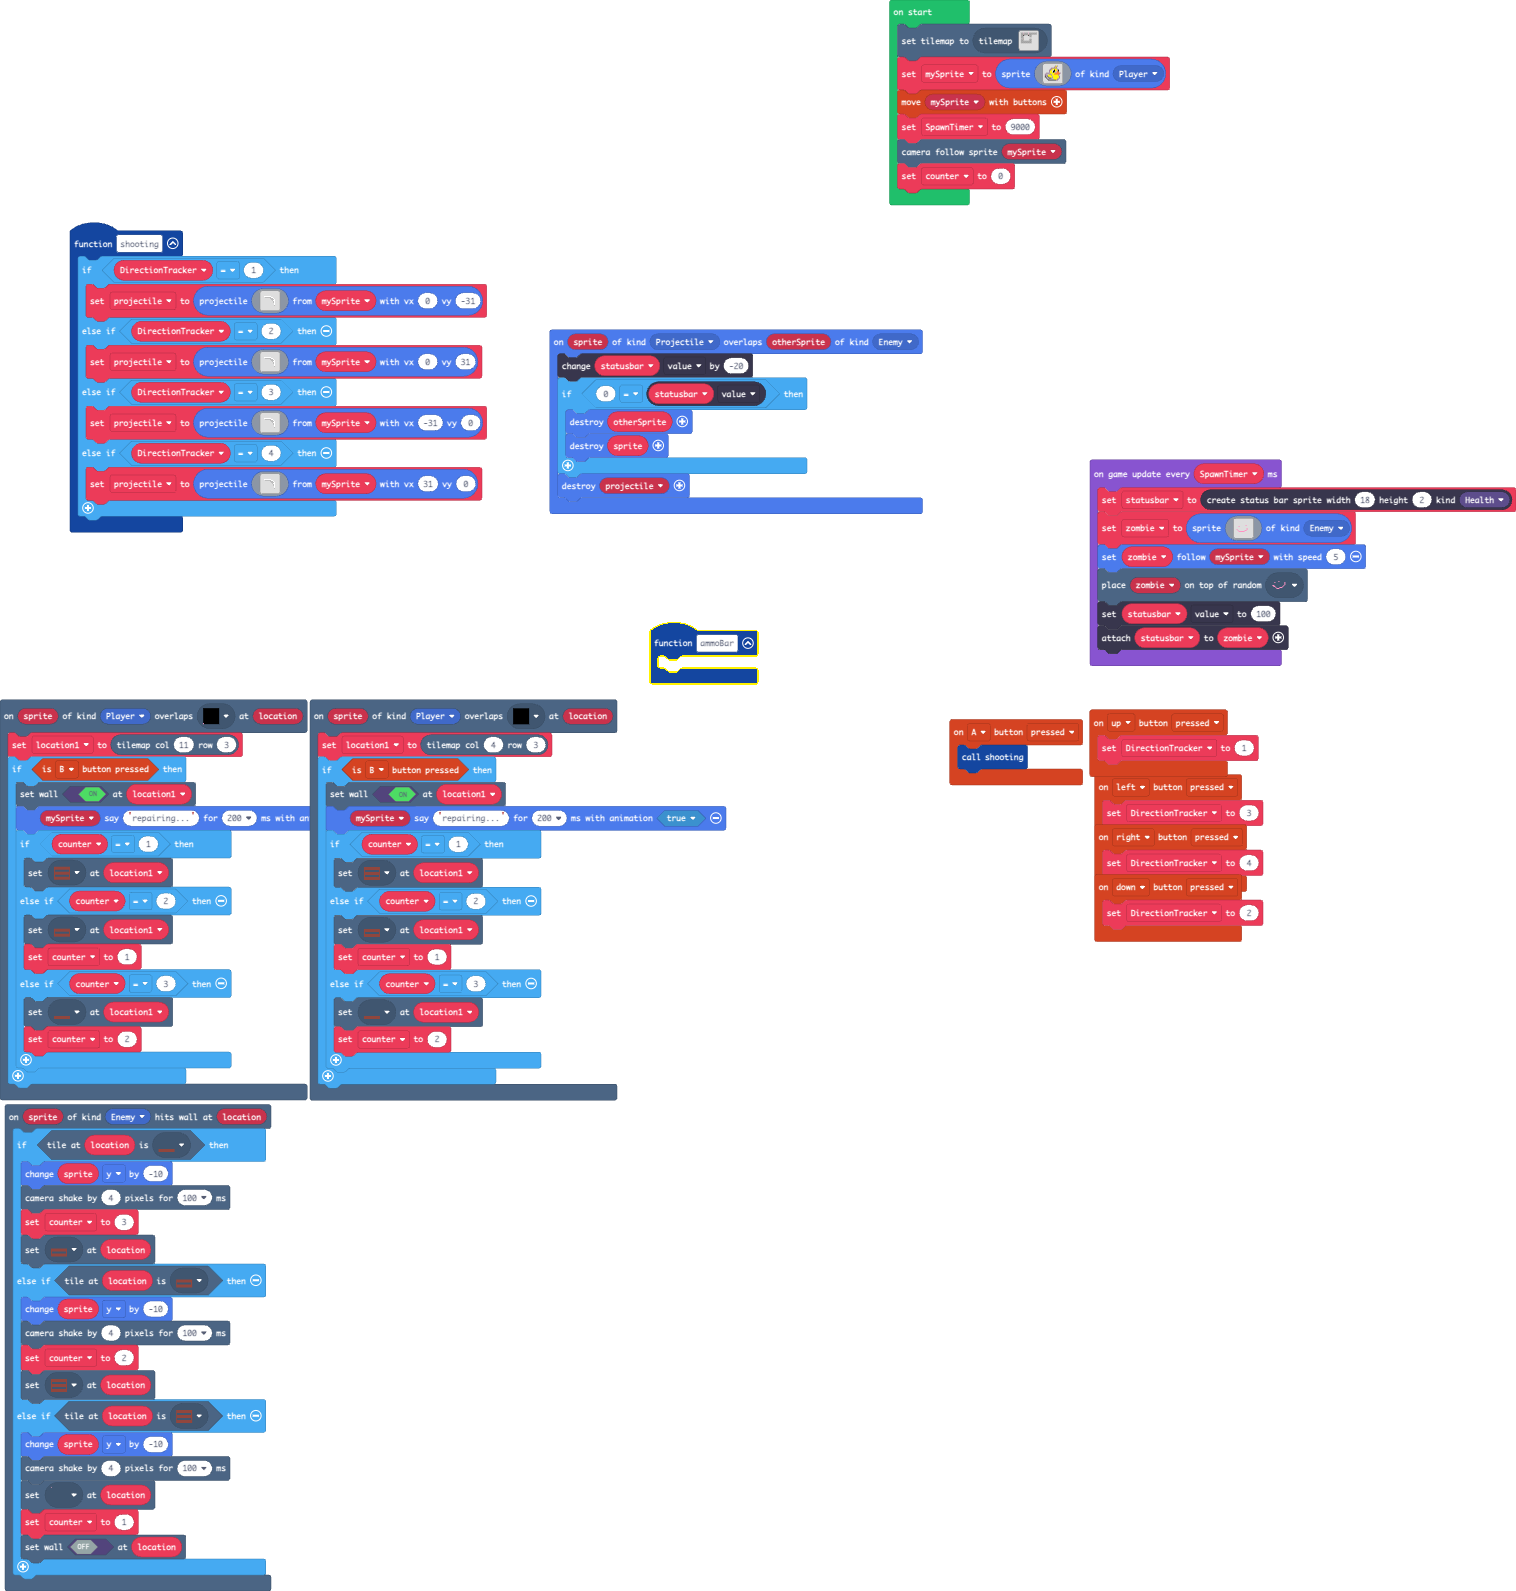
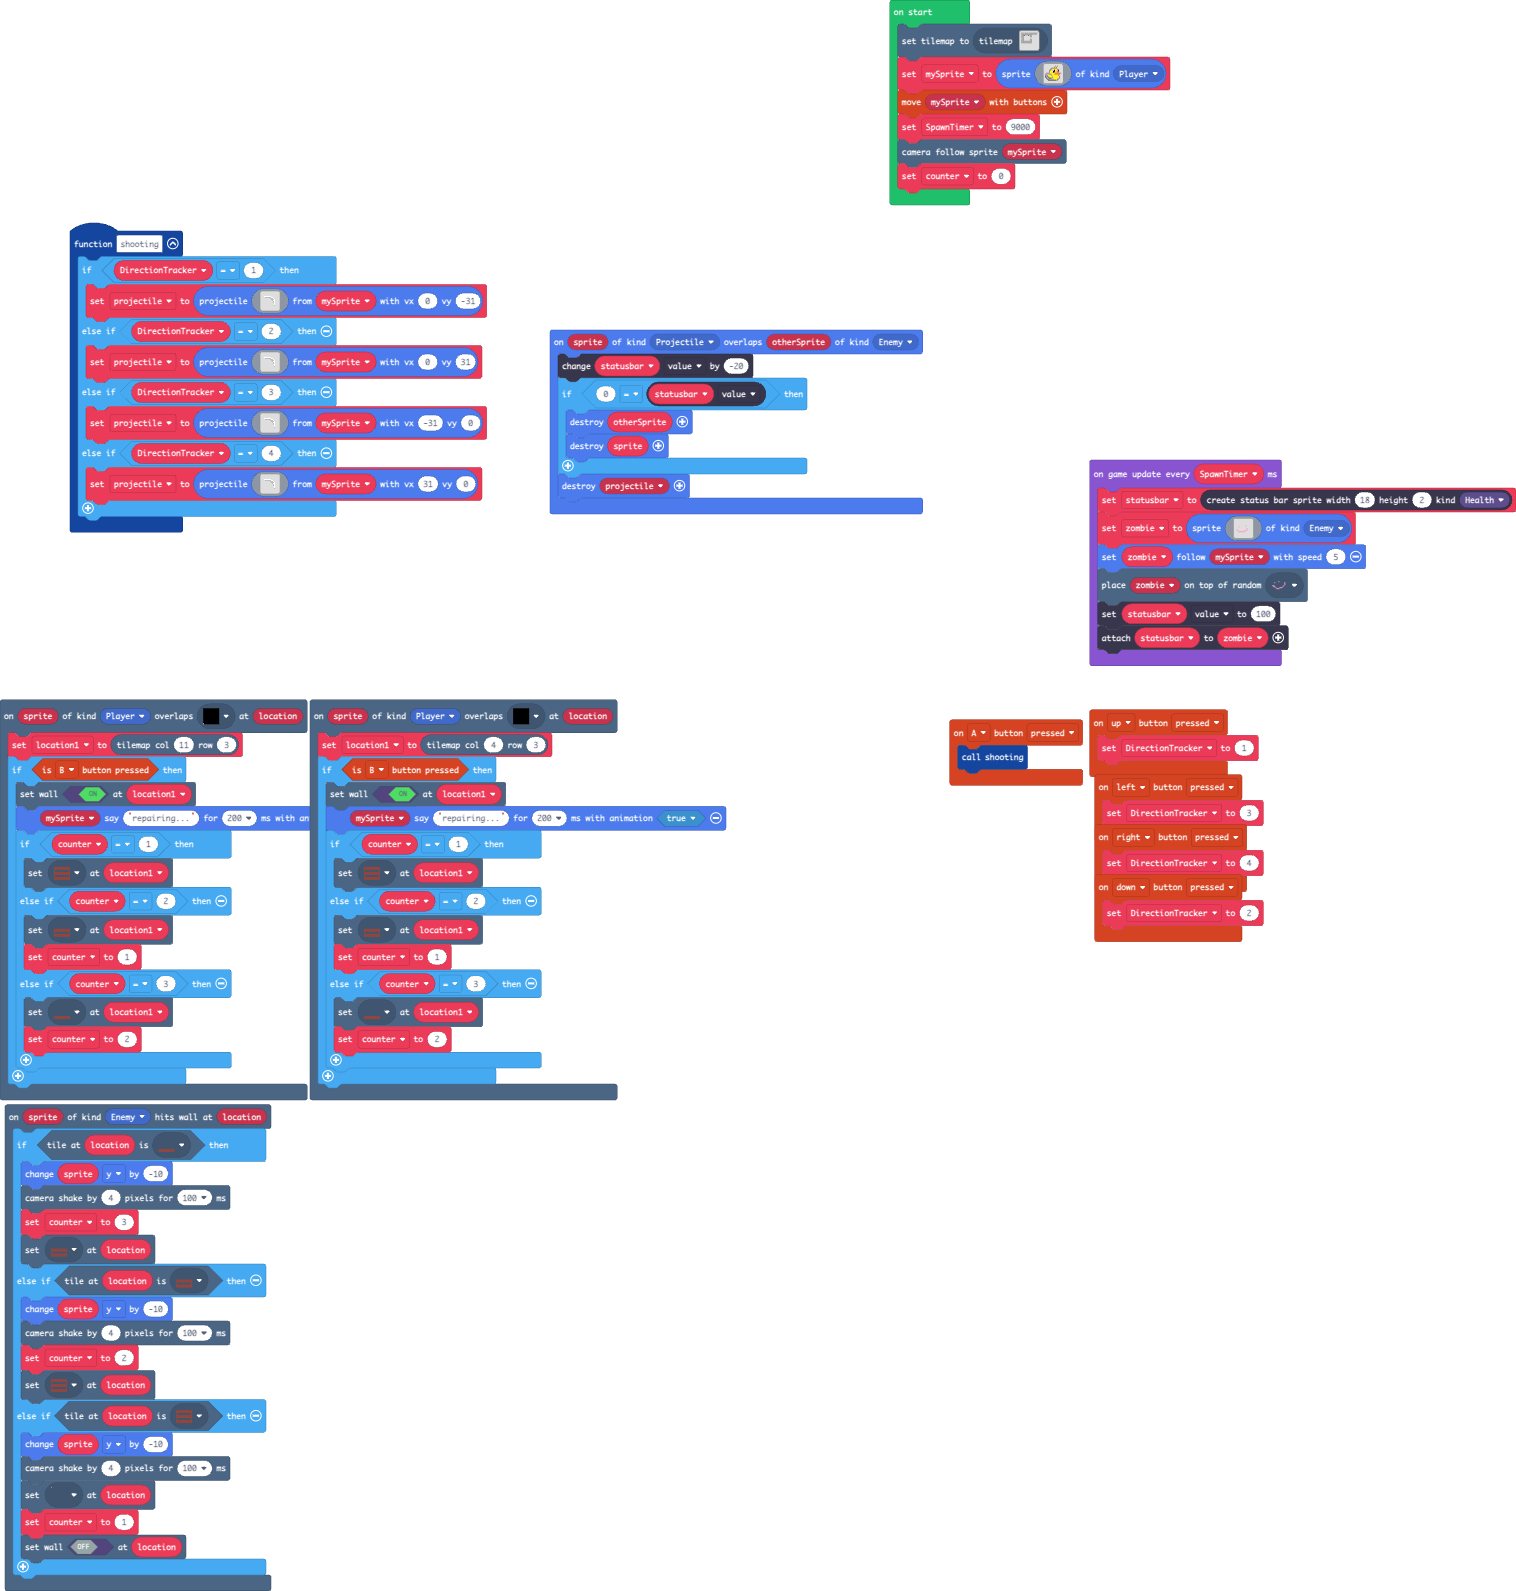
reverted

Changed region(s): [[0.403, 0.3696, 0.527, 0.4312], [0.403, 0.2156, 0.465, 0.308], [0.8061, 0.2772, 0.8371, 0.308]]

diff --git a/main.ts b/main.ts
@@ -26,9 +26,6 @@ controller.A.onEvent(ControllerButtonEvent.Pressed, function () {
 controller.left.onEvent(ControllerButtonEvent.Pressed, function () {
     DirectionTracker = 3
 })
-function ammoBar () {
-	
-}
 scene.onHitWall(SpriteKind.Enemy, function (sprite, location) {
     if (tiles.tileAtLocationEquals(location, assets.tile`baracade1`)) {
         sprite.y += -10
